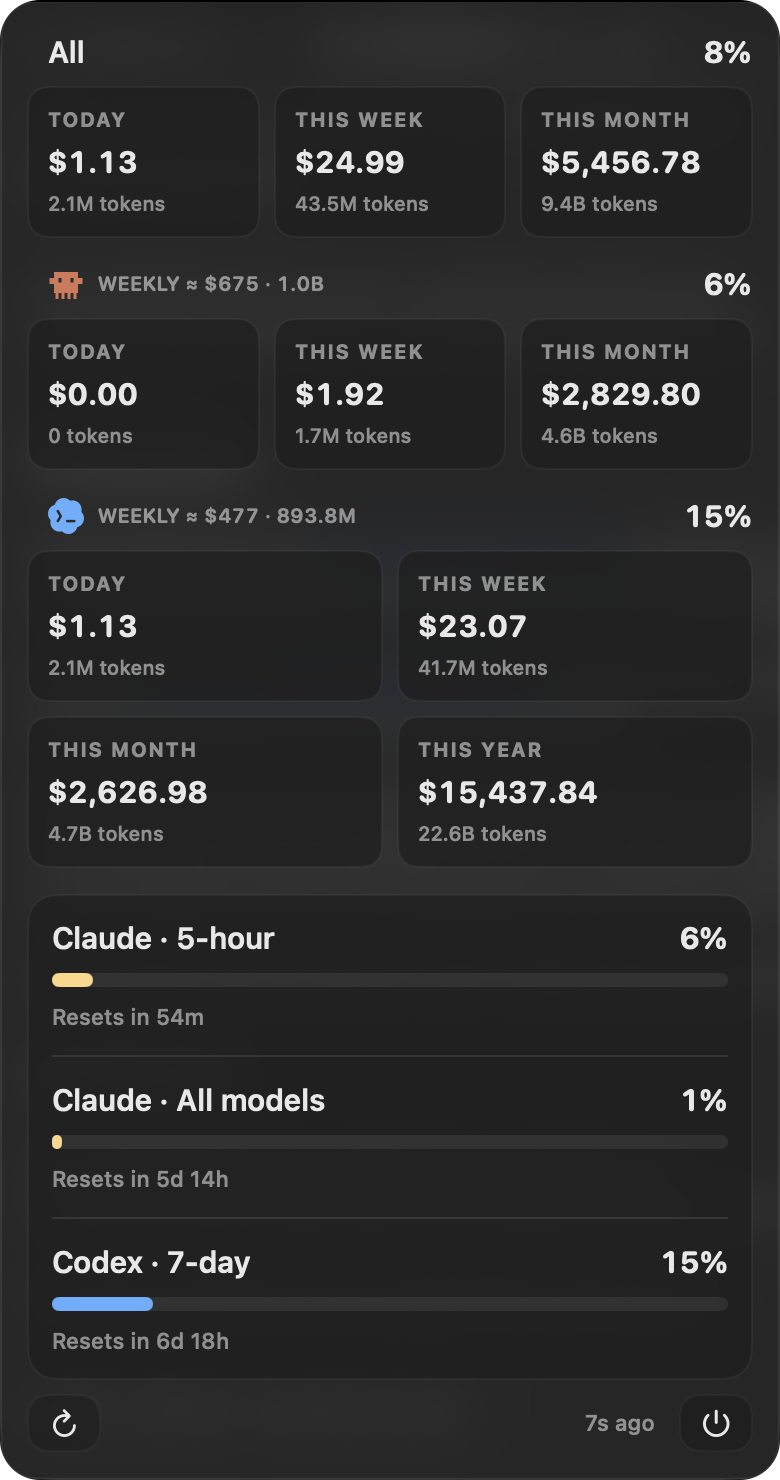
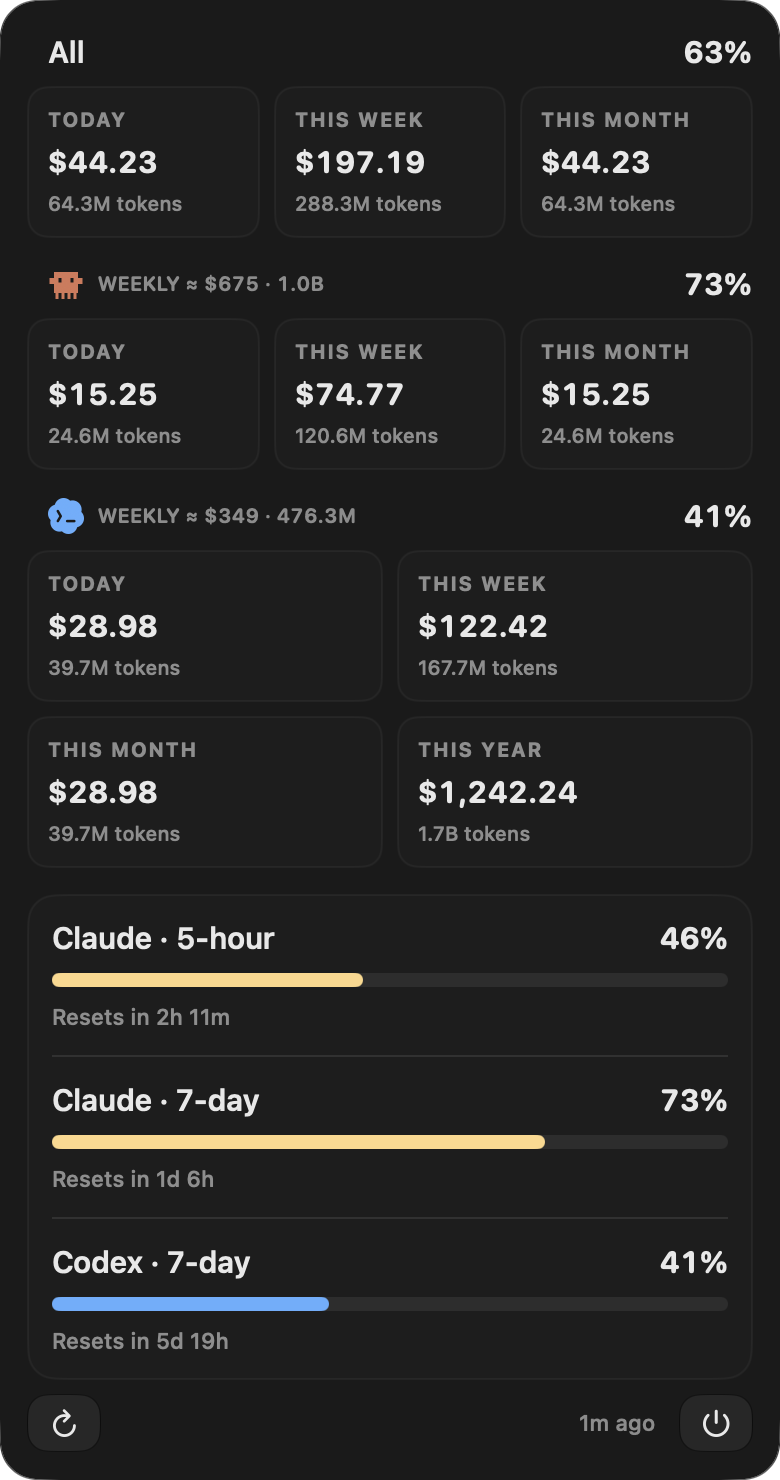
Use weekly provider percentages

diff --git a/Sources/TokenBar/UsageModels.swift b/Sources/TokenBar/UsageModels.swift
@@ -92,6 +92,16 @@ struct ProviderSnapshot: Codable, Hashable {
             .max()
     }
 
+    var weeklyPercent: Double? {
+        let windows = [longWindow, shortWindow].compactMap { $0 } + extraWindows
+        guard let percent = windows.first(where: {
+            $0.windowMinutes == 7 * 24 * 60
+        })?.usedPercent, percent.isFinite else {
+            return nil
+        }
+        return min(100, max(0, percent))
+    }
+
     var isStale: Bool { stale == true }
 
     var hasDisplayableData: Bool {
@@ -422,7 +432,7 @@ struct AppSnapshot: Codable, Hashable {
             guard let capacity,
                   capacity.isFinite,
                   capacity > 0,
-                  let percent = weeklyPercent(in: provider)
+                  let percent = provider.weeklyPercent
             else {
                 return nil
             }
@@ -444,19 +454,6 @@ struct AppSnapshot: Codable, Hashable {
         case (false, true): return .codexOnly
         case (true, true): return .both
         }
-    }
-
-    private func weeklyPercent(in provider: ProviderSnapshot) -> Double? {
-        let windows = [provider.longWindow, provider.shortWindow].compactMap { $0 }
-            + provider.extraWindows
-        guard let percent = windows
-            .first(where: { $0.windowMinutes == 7 * 24 * 60 })?
-            .usedPercent,
-            percent.isFinite
-        else {
-            return nil
-        }
-        return min(100, max(0, percent))
     }
 }
 

diff --git a/Sources/TokenBar/TokenBarPanel.swift b/Sources/TokenBar/TokenBarPanel.swift
@@ -205,9 +205,9 @@ private struct UsageActivityGroup: View {
         case .overview:
             value = store.snapshot.combinedCapacityPercent
         case .claude:
-            value = store.snapshot.claude.headlinePercent
+            value = store.snapshot.claude.weeklyPercent
         case .codex:
-            value = store.snapshot.codex.headlinePercent
+            value = store.snapshot.codex.weeklyPercent
         }
         return value.map { "\(Int($0.rounded()))%" } ?? "--"
     }

diff --git a/README.md b/README.md
@@ -5,7 +5,7 @@ A native macOS menu bar monitor for Claude Code and OpenAI Codex.
 **macOS 14+ · Swift 5.10 · MIT**
 
 <p align="center">
-  <img src="docs/screenshots/token-bar-dashboard.png" alt="Token Bar dashboard for Claude Code and Codex" width="360">
+  <img src="docs/screenshots/token-bar-dashboard.png" alt="Token Bar dashboard for Claude Code and Codex" width="280">
 </p>
 
 ## At a glance
